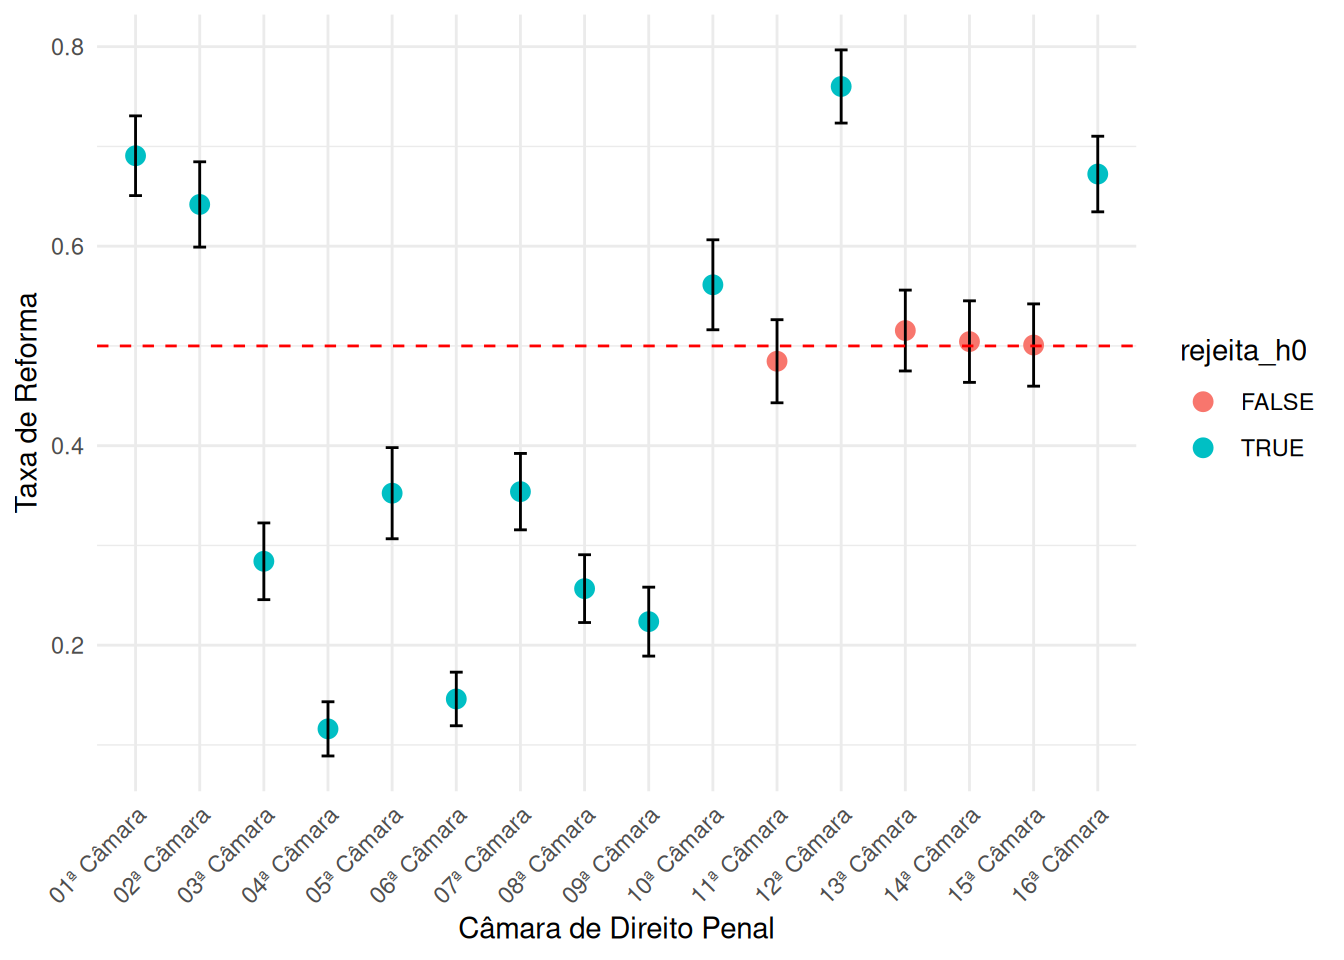
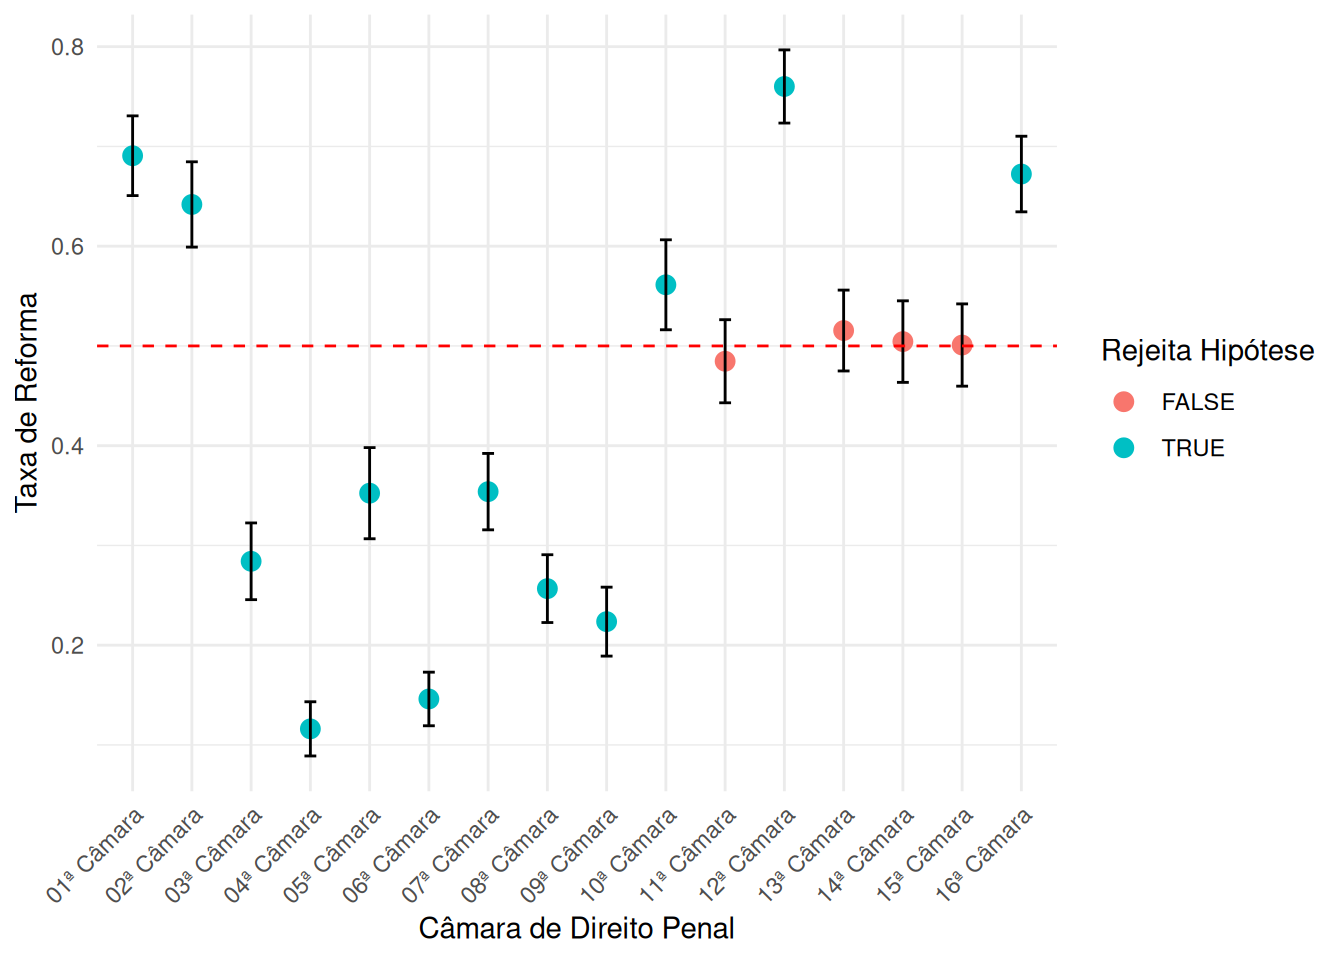
:jurimetria: ops

diff --git a/content/courses/jurimetria/aulas/07_testes.html b/content/courses/jurimetria/aulas/07_testes.html
@@ -35,7 +35,7 @@ Como usualmente só somos capazes de observar a amostra, não somos capazes de d
 <strong>Observação</strong>: Verifique <span class="math inline">\(H_0\)</span> é rejeitado quando o intervalo de confiança 95% para <span class="math inline">\(\theta\)</span> não contém o valor <span class="math inline">\(0.5\)</span>.</p>
 <p>O exemplo a seguir estuda a taxa de reforma de sentenças por Câmaras Criminais em recursos nos quais o Ministério Público é polo passivo. Para cada Câmara, testa-se a hipótese que a taxa de reforma é 50%.</p>
 <pre class="r"><code>library(tidyverse)
-aux = read_csv(&quot;./camaras.csv&quot;) %&gt;% 
+read_csv(&quot;./camaras.csv&quot;) %&gt;% 
   mutate(
     reforma = decisao %in% c(&quot;Parcialmente&quot;, &quot;Provido&quot;),
     camara = gsub(&quot; de Direito Criminal&quot;, &quot;&quot;, camara)
@@ -58,6 +58,7 @@ aux = read_csv(&quot;./camaras.csv&quot;) %&gt;%
   ylab(&quot;Taxa de Reforma&quot;) +
   xlab(&quot;Câmara de Direito Penal&quot;) +
   labs(color = &quot;Rejeita Hipótese&quot;)</code></pre>
+<p><img src="/courses/jurimetria/aulas/07_testes_files/figure-html/unnamed-chunk-2-1.png" width="672" /></p>
 </div>
 <div id="exemplo-amostra-normal" class="section level2">
 <h2>Exemplo: Amostra Normal</h2>
